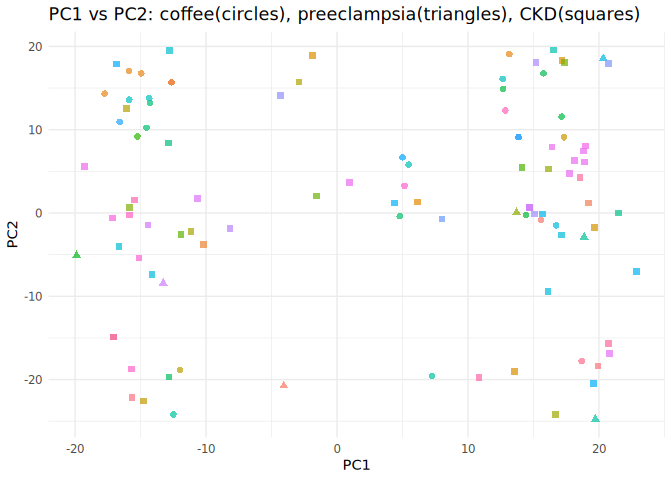
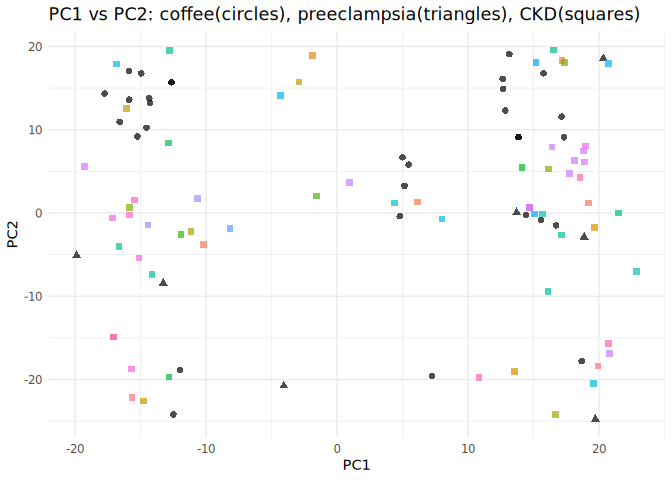
funy things

diff --git a/README.md b/README.md
@@ -33,7 +33,7 @@ library(ggplot2)
 # Use OpenRemoteParquetView to inspect the first few rows
 OpenRemoteParquetView()
 #> # Source:   table<embeddings> [?? x 6]
-#> # Database: DuckDB 1.4.0 [root@Linux 6.8.0-78-generic:R 4.5.1//tmp/RtmppfBSlV/file8b7e562bbb52.duckdb]
+#> # Database: DuckDB 1.4.0 [root@Linux 6.8.0-78-generic:R 4.5.1//tmp/RtmpLGL6tS/file8b9fd3f061639.duckdb]
 #>    chrom pos       ref_UKB alt_UKB rsid       embedding    
 #>    <chr> <chr>     <chr>   <chr>   <chr>      <list>       
 #>  1 5     148899362 T       G       rs4705280  <dbl [3,072]>
@@ -58,7 +58,7 @@ CopyParquetToDuckDB(db_path = "local_embeddings.duckdb", overwrite = FALSE)
 )
 #> Database file 'local_embeddings.duckdb' already exists. Skipping copy.
 #>    user  system elapsed 
-#>   0.024   0.007   0.028
+#>   0.029   0.004   0.029
 file.info("local_embeddings.duckdb")$size
 #> [1] 12106084352
 ```
@@ -75,7 +75,7 @@ overwrite = FALSE)
 #> local_embeddings.houba.desc already exists.
 #> Using existing houba file and info data.
 #>    user  system elapsed 
-#>   0.562   0.052   0.574
+#>   0.578   0.046   0.574
 houba
 #> Houba mmatrix file: local_embeddings.houba 
 #> Embeddings (houba::mmatrix):
@@ -116,7 +116,7 @@ system.time(
 #> Dimensions: 616386 x 3072
 #> Running PCA with center=TRUE, scale=TRUE, ncomp=15
 #>    user  system elapsed 
-#> 360.378 115.586  55.125
+#> 357.203 115.455  55.065
 ```
 
 ## 5. Get PCA scores
@@ -194,8 +194,8 @@ ckd_snps <- subset(plotDf, !is.na(gen_ckd)) |>
 # Plot: coffee SNPs as circles, preeclampsia SNPs as triangles, CKD SNPs as squares
 plot_pc_pair <- function(pc_x, pc_y, title) {
 ggplot() +
-  geom_point(data = coffee_snps, aes(x = .data[[pc_x]], y = .data[[pc_y]], color = .data[["gen_coffee"]]), shape = 16, size = 2, alpha = 0.7) +
-  geom_point(data = preeclampsia_snps, aes(x = .data[[pc_x]], y = .data[[pc_y]], color = .data[["gen_preeclampsia"]]), shape = 17, size = 2, alpha = 0.7) +
+  geom_point(data = coffee_snps, aes(x = .data[[pc_x]], y = .data[[pc_y]]), shape = 16, size = 2, alpha = 0.7) +
+  geom_point(data = preeclampsia_snps, aes(x = .data[[pc_x]], y = .data[[pc_y]]), shape = 17, size = 2, alpha = 0.7) +
   geom_point(data = ckd_snps, aes(x = .data[[pc_x]], y = .data[[pc_y]], color = .data[["gen_ckd"]]), shape = 15, size = 2, alpha = 0.7) +
   labs(title = title, x = pc_x, y = pc_y) +
   theme_minimal() +
